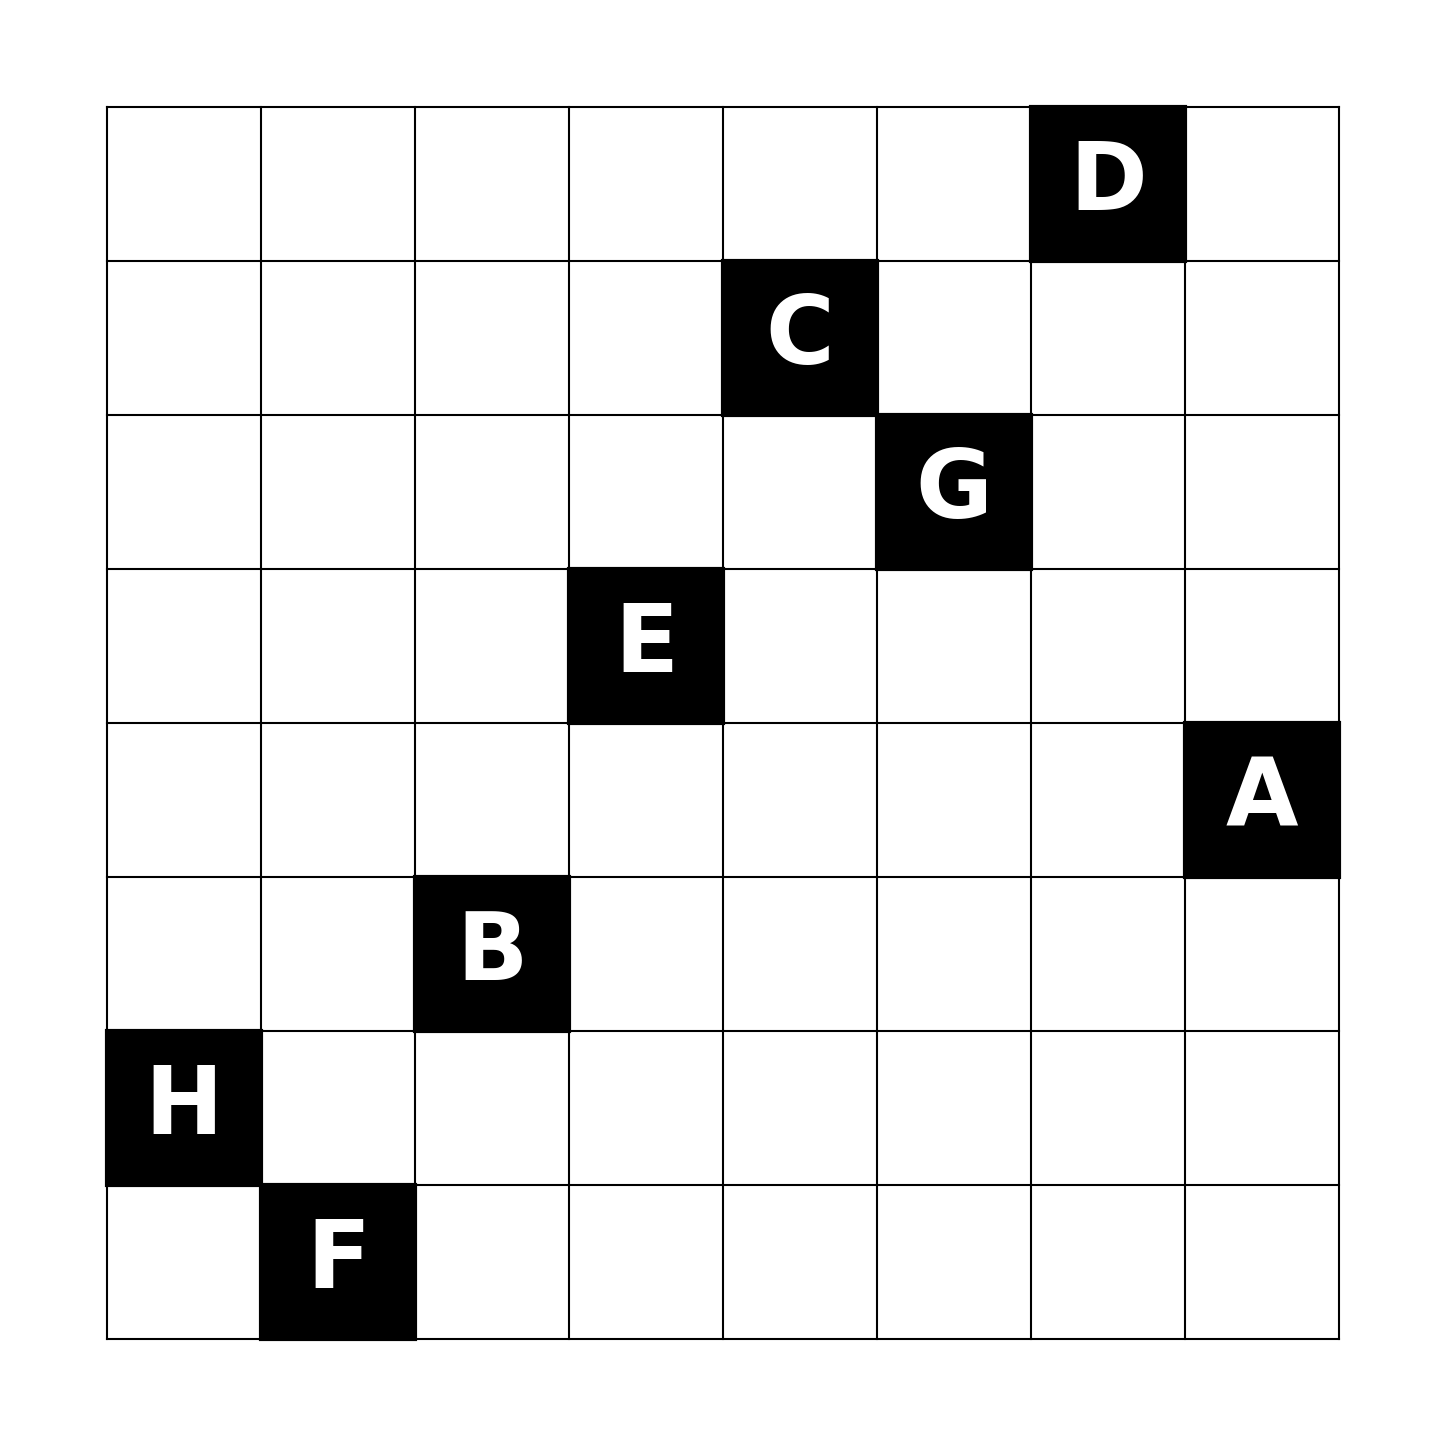
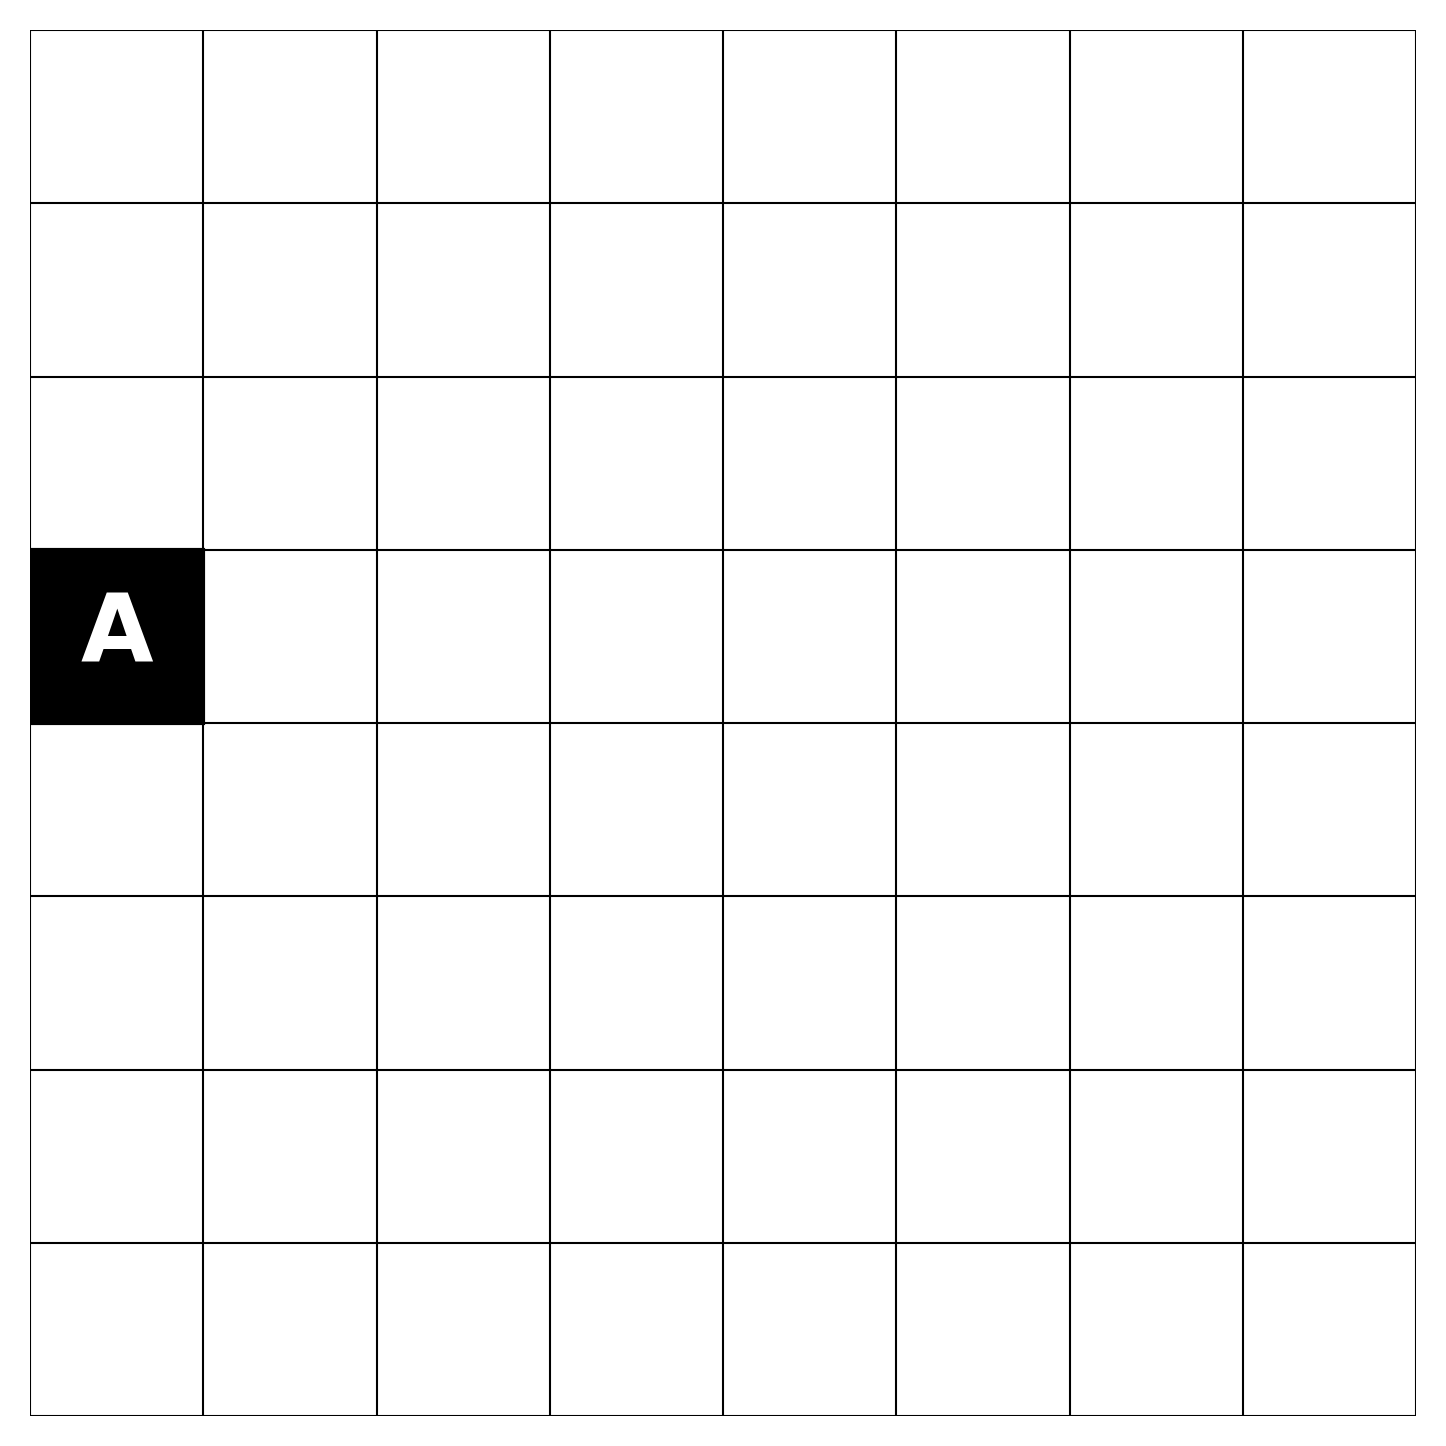
Implement ImportWindow for CSV file input and enhance image export options

diff --git a/script.py b/script.py
@@ -8,6 +8,7 @@ from matplotlib.backends.backend_tkagg import FigureCanvasTkAgg
 import json
 import os
 from datetime import datetime
+from generateSet import ImportWindow  
 
 
 # Configuración inicial
@@ -498,9 +499,7 @@ def exportar_imagen(modo="normal", filename=None):
                     temp_ax.text(x + 0.5, y + 0.5, str(recorridos[(x, y)]), 
                         ha='center', va='center', color='white', 
                         fontsize=180/tamaño_grilla, weight='bold')
-                        
-        elif modo == "completo_aqua":
-            # Versión completa con números en verde claro
+        else:
             # Primero dibujamos las flechas para que queden detrás de los cuadros
             for flecha in flechas:
                 origen = flecha["origen"]
@@ -509,20 +508,15 @@ def exportar_imagen(modo="normal", filename=None):
                 x2, y2 = destino
                 direction = flecha["dir"]
                 config = flecha["config"]
-
+                # Lógica para dibujar la flecha desde el borde de la celda
                 if direction == 0:  # Vertical hacia abajo
-                    xi = 0.5
-                    yi = 1
+                    xi = 0.5; yi = 1
                 elif direction == 1:  # Vertical hacia arriba
-                    xi = 0.5
-                    yi = 0
+                    xi = 0.5; yi = 0
                 elif direction == 2:  # Horizontal hacia derecha
-                    xi = 1
-                    yi = 0.5
+                    xi = 1; yi = 0.5
                 elif direction == 3:  # Horizontal hacia izquierda
-                    xi = 0
-                    yi = 0.5
-
+                    xi = 0; yi = 0.5
                 temp_ax.arrow(
                     x1 + xi, y1 + yi,
                     x2 - x1, y2 - y1,
@@ -535,29 +529,32 @@ def exportar_imagen(modo="normal", filename=None):
                     zorder=3
                 )
 
-            # Luego dibujamos los cuadros y números
-            for letra in letras:
-                x, y = letra["pos"]
-                temp_ax.add_patch(patches.Rectangle((x, y), 1, 1, 
-                    facecolor=letra["fondo"], edgecolor='black', zorder=4))
-                if (x, y) in recorridos:
-                    temp_ax.text(x + 0.5, y + 0.5, str(recorridos[(x, y)]), 
-                        ha='center', va='center', color='#b9f4b2', 
-                        fontsize=180/tamaño_grilla, weight='bold', zorder=5)
-            
-            # Agregar flechas
-            for flecha in flechas:
-                origen = flecha["origen"]
-                destino = flecha["destino"]
-                temp_ax.annotate("", xy=(destino[0] + 0.5, destino[1] + 0.5),
-                    xytext=(origen[0] + 0.5, origen[1] + 0.5),
-                    arrowprops=dict(arrowstyle='->',
-                                  color=flecha["config"]["color"],
-                                  lw=flecha["config"]["grosor"]))
+            if modo == "completo_aqua":
+                # Versión completa con números en verde claro
+                # Luego dibujamos los cuadros y números
+                for letra in letras:
+                    x, y = letra["pos"]
+                    temp_ax.add_patch(patches.Rectangle((x, y), 1, 1, 
+                        facecolor=letra["fondo"], edgecolor='black', zorder=4))
+                    if (x, y) in recorridos:
+                        temp_ax.text(x + 0.5, y + 0.5, str(recorridos[(x, y)]), 
+                            ha='center', va='center', color='#b9f4b2', 
+                            fontsize=180/tamaño_grilla, weight='bold', zorder=5)
+                
+            elif modo == "promedios":
+                # Versión completa para output actividad promedios
+                # Solo cuadros con letras
+                for letra in letras:
+                    x, y = letra["pos"]
+                    temp_ax.add_patch(patches.Rectangle((x, y), 1, 1, 
+                        facecolor=letra["fondo"], edgecolor='black'))
+                    temp_ax.text(x + 0.5, y + 0.5, letra["texto"], 
+                        ha='center', va='center', color=letra["color"], 
+                        fontsize=180/tamaño_grilla, weight='bold')
         
         # Configuración común para todos los modos
-        temp_ax.set_xlim(-0.5, tamaño_grilla + 0.5)
-        temp_ax.set_ylim(-0.5, tamaño_grilla + 0.5)
+        temp_ax.set_xlim(0, tamaño_grilla)
+        temp_ax.set_ylim(0, tamaño_grilla)
         temp_ax.set_aspect('equal')
         temp_ax.axis('off')
         
@@ -587,6 +584,9 @@ def exportar_todas_versiones():
         
         # Exportar versión S (completa con números aqua)
         exportar_imagen("completo_aqua", filename=os.path.join(directory, "puzzle_S.png"))
+
+        # Exportar versión S (completa con números aqua)
+        exportar_imagen("promedios", filename=os.path.join(directory, "AD25 #.png"))
         
         messagebox.showinfo("Éxito", "Todas las versiones han sido exportadas correctamente")
         return True
@@ -624,11 +624,13 @@ menu_exportar.add_command(label="P version",
     command=lambda: exportar_imagen("solo_numeros"))
 menu_exportar.add_command(label="S version", 
     command=lambda: exportar_imagen("completo_aqua"))
+menu_exportar.add_command(label="Output version", 
+    command=lambda: exportar_imagen("promedios"))
 menu_exportar.add_separator()
 menu_exportar.add_command(label="Exportar todas las versiones", 
     command=lambda: exportar_todas_versiones())
 
-menu_archivo.add_command(label="Importar Promedios", command=lambda: print("Importar - Función por implementar"))
+menu_archivo.add_command(label="Importar Promedios", command=lambda: ImportWindow(root))
 menu_archivo.add_separator()
 menu_archivo.add_command(label="Cerrar", command=root.quit)
 

diff --git a/generateSet.py b/generateSet.py
@@ -1,0 +1,100 @@
+import tkinter as tk
+from tkinter import filedialog, messagebox
+import csv
+
+class ImportWindow:
+    # --- (La parte de la interfaz no cambia) ---
+    def __init__(self, master):
+        self.window = tk.Toplevel(master)
+        self.window.title("Importar Archivos para Generación")
+        self.window.geometry("750x300")
+        self.window.resizable(False, False)
+        self.window.config(bg="lightgray")
+        self.file_paths = { "blocks": "", "vectores_correctos": "", "vectores_promedio": "", "relacion_grupos": "" }
+        self.create_widgets()
+
+    def create_file_input_row(self, frame, label_text, file_key, row_index):
+        label = tk.Label(frame, text=label_text, font=("Helvetica", 10), bg="white")
+        label.grid(row=row_index, column=0, sticky="w", padx=10, pady=8)
+        entry = tk.Entry(frame, width=70, state="readonly", readonlybackground="white", relief="solid", borderwidth=1)
+        entry.grid(row=row_index, column=1, sticky="ew", padx=10)
+        button = tk.Button(frame, text="Adjuntar...", command=lambda: self.select_file(file_key, entry))
+        button.grid(row=row_index, column=2, sticky="e", padx=10)
+
+    def create_widgets(self):
+        container = tk.LabelFrame(self.window, text="Archivos CSV Requeridos", bg="white", padx=15, pady=15)
+        container.pack(fill="both", expand=True, padx=15, pady=10)
+        self.create_file_input_row(container, "Blocks CSV:", "blocks", 0)
+        self.create_file_input_row(container, "Vectores Correctos CSV:", "vectores_correctos", 1)
+        self.create_file_input_row(container, "Vectores Promedio CSV:", "vectores_promedio", 2)
+        self.create_file_input_row(container, "Relación Puzzles-Grupos CSV:", "relacion_grupos", 3)
+        container.columnconfigure(1, weight=1)
+        button_frame = tk.Frame(self.window, bg="lightgray")
+        button_frame.pack(fill="x", padx=15, pady=(0, 10))
+        cancel_button = tk.Button(button_frame, text="Cancelar", width=12, command=self.window.destroy)
+        cancel_button.pack(side="right", padx=5)
+        start_button = tk.Button(button_frame, text="Iniciar Proceso", width=12, command=self.start_process)
+        start_button.pack(side="right")
+
+    def select_file(self, file_key, entry_widget):
+        filepath = filedialog.askopenfilename(title=f"Selecciona el archivo {file_key}.csv", filetypes=[("Archivos CSV", "*.csv"), ("Todos los archivos", "*.*")])
+        if filepath:
+            self.file_paths[file_key] = filepath
+            entry_widget.config(state="normal")
+            entry_widget.delete(0, tk.END)
+            entry_widget.insert(0, filepath)
+            entry_widget.config(state="readonly")
+    
+    def load_csv_as_matrix(self, filepath):
+        """
+        Esta función lee un archivo CSV y lo devuelve como una lista de listas (matriz).
+        También devuelve el encabezado por separado.
+        """
+        matrix = []
+        with open(filepath, mode='r', encoding='utf-8') as file:
+            csv_reader = csv.reader(file)
+            
+            # Leer el encabezado para separarlo de los datos
+            header = next(csv_reader, None)
+            
+            # Guardar el resto de las filas en la matriz
+            for row in csv_reader:
+                matrix.append(row)
+                
+        return header, matrix
+
+    def start_process(self):
+        """
+        Carga un CSV como matriz y la recorre con ciclos for simples.
+        """
+        filepath = self.file_paths["blocks"]
+        if not filepath:
+            messagebox.showwarning("Falta archivo", "Por favor, adjunta el archivo para 'blocks'.")
+            return
+
+        try:
+            # 1. Cargar el CSV en una estructura de matriz simple
+            header, data_matrix = self.load_csv_as_matrix(filepath)
+            
+            print(f"Encabezado del CSV: {header}")
+            print("--- Recorriendo la matriz con ciclos 'for' ---\n")
+
+            # 2. Usar ciclos simples para recorrer la matriz (lista de listas)
+            # Ciclo exterior para las filas (índice i)
+            for i in range(len(data_matrix)):
+                # Ciclo interior para las columnas (índice j)
+                for j in range(len(data_matrix[i])):
+                    # Acceder al valor usando los índices de la matriz: matriz[fila][columna]
+                    cell_value = data_matrix[i][j]
+                    if cell_value == '':
+                        print(f"  Fila {i}, Columna {j} | Valor: NULL")
+                    else:
+                        print(f"  Fila {i}, Columna {j} | Valor: {cell_value}")
+
+            
+            messagebox.showinfo("Proceso Exitoso", "La matriz de datos se ha impreso en la consola.")
+            self.window.destroy()
+
+        except Exception as e:
+            messagebox.showerror("Error", f"No se pudo procesar el archivo.\n\nError: {e}")
+            return
